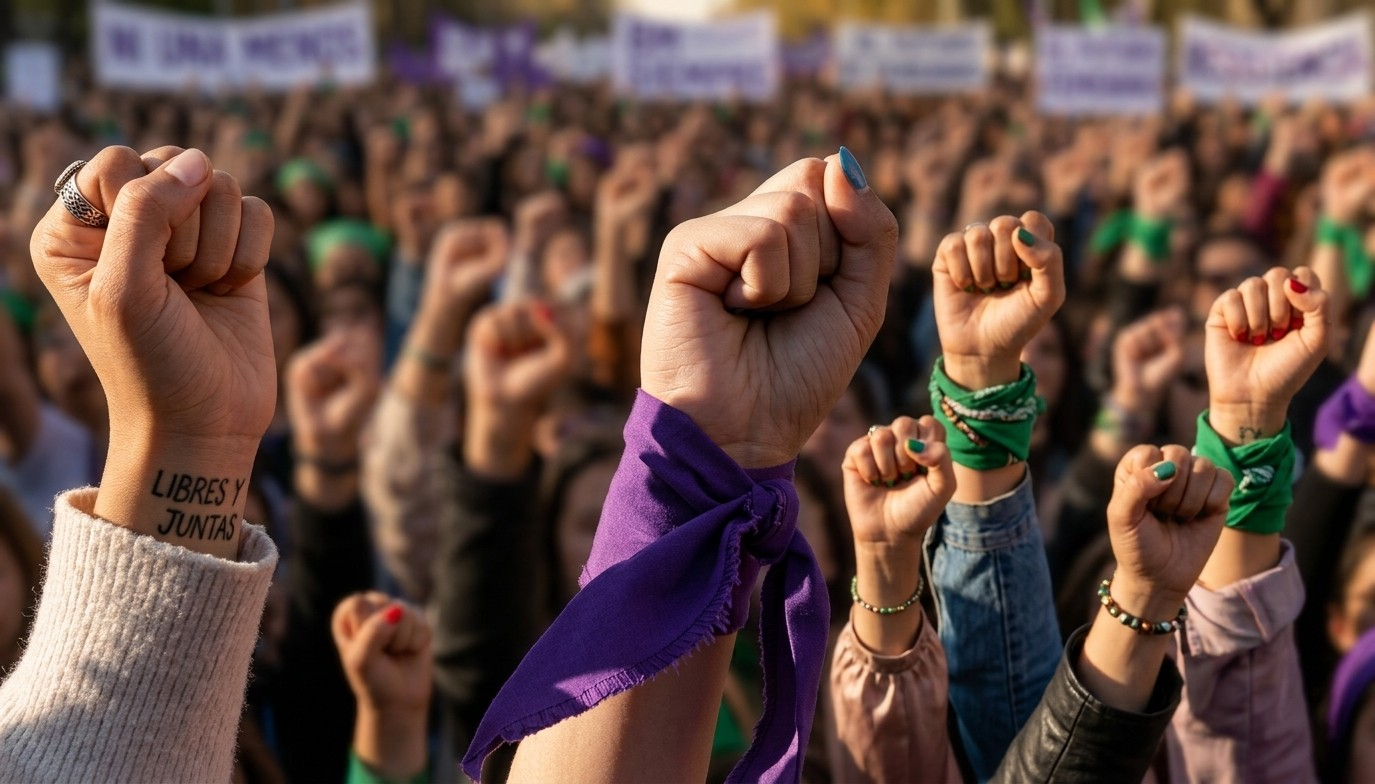
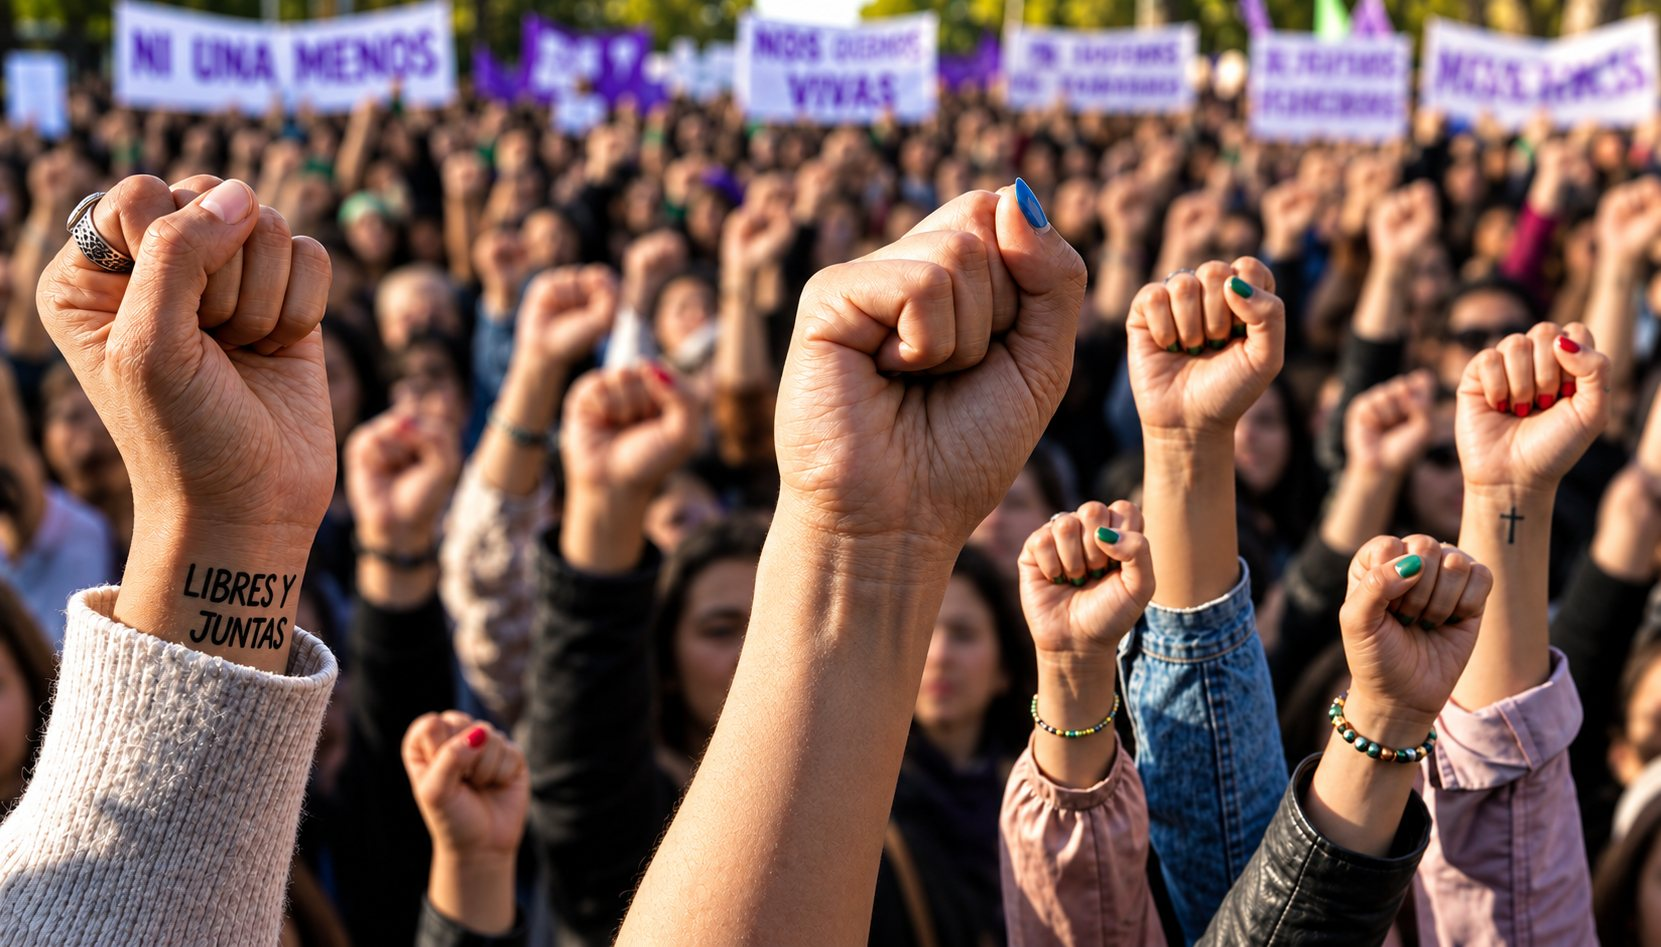
Portada: imagen sin pañuelos, sin crédito
Foto nueva (1661x947, 249 KB) que sustituye a la anterior. Se retira el crédito
del pie y la portada-original.jpg vieja, que ya no correspondía a lo servido.
No se toca tablero/estado.json: el local trae la recolección de las pruebas de
contención sin clasificar, y publicarlo hundiría la prevalencia.

diff --git a/css/home.css b/css/home.css
@@ -72,7 +72,10 @@
 .pregunta--uno .desliza{ color: rgba(255,255,255,.6); }
 
 /* Procedencia de la imagen: si la portada lleva personas reales, la fuente
-   se declara. No es decoración. */
+   se declara. No es decoración.
+   Sin usar desde el 11-sep-2026: la portada actual es una imagen generada, no
+   retrata a nadie, y el crédito se retiró por decisión del proyecto. La regla
+   sigue escrita porque su condición puede volver a cumplirse. */
 .portada__credito{
   position:absolute; left: var(--margen); bottom:22px; z-index:2;
   font-family: var(--mono); font-size: var(--t-mono-3);

diff --git a/index.html b/index.html
@@ -58,7 +58,6 @@
         </div>
       </div>
     </div>
-    <p class="portada__credito">Imagen generada con IA · Gemini</p>
     <p class="desliza"><span aria-hidden="true">↓</span> desliza</p>
   </section>
 
